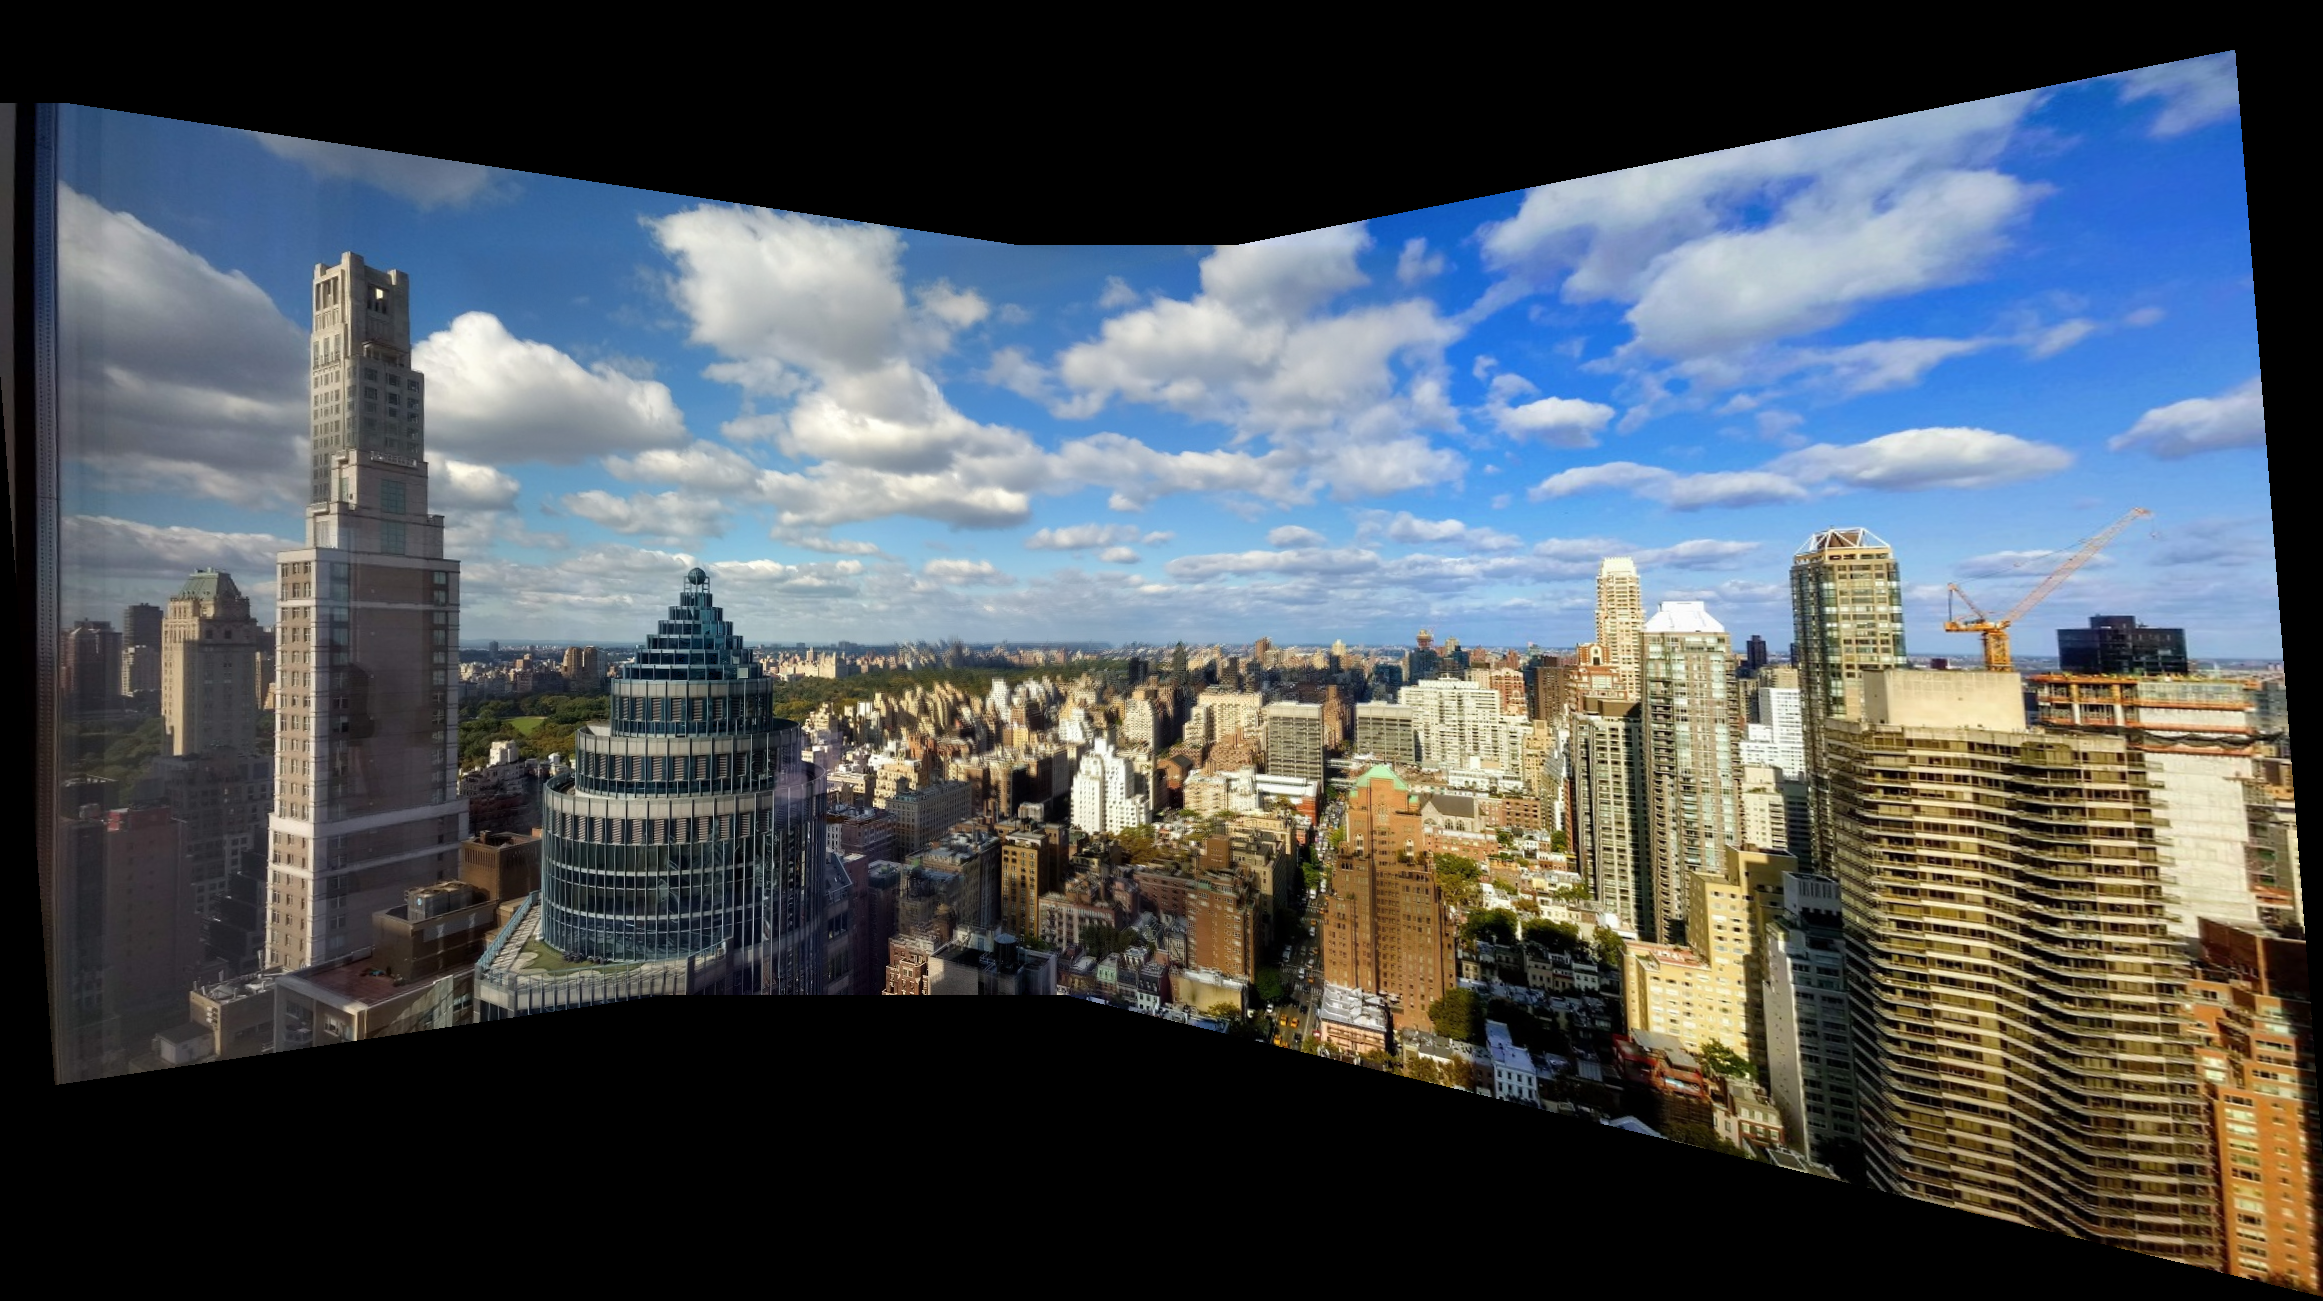
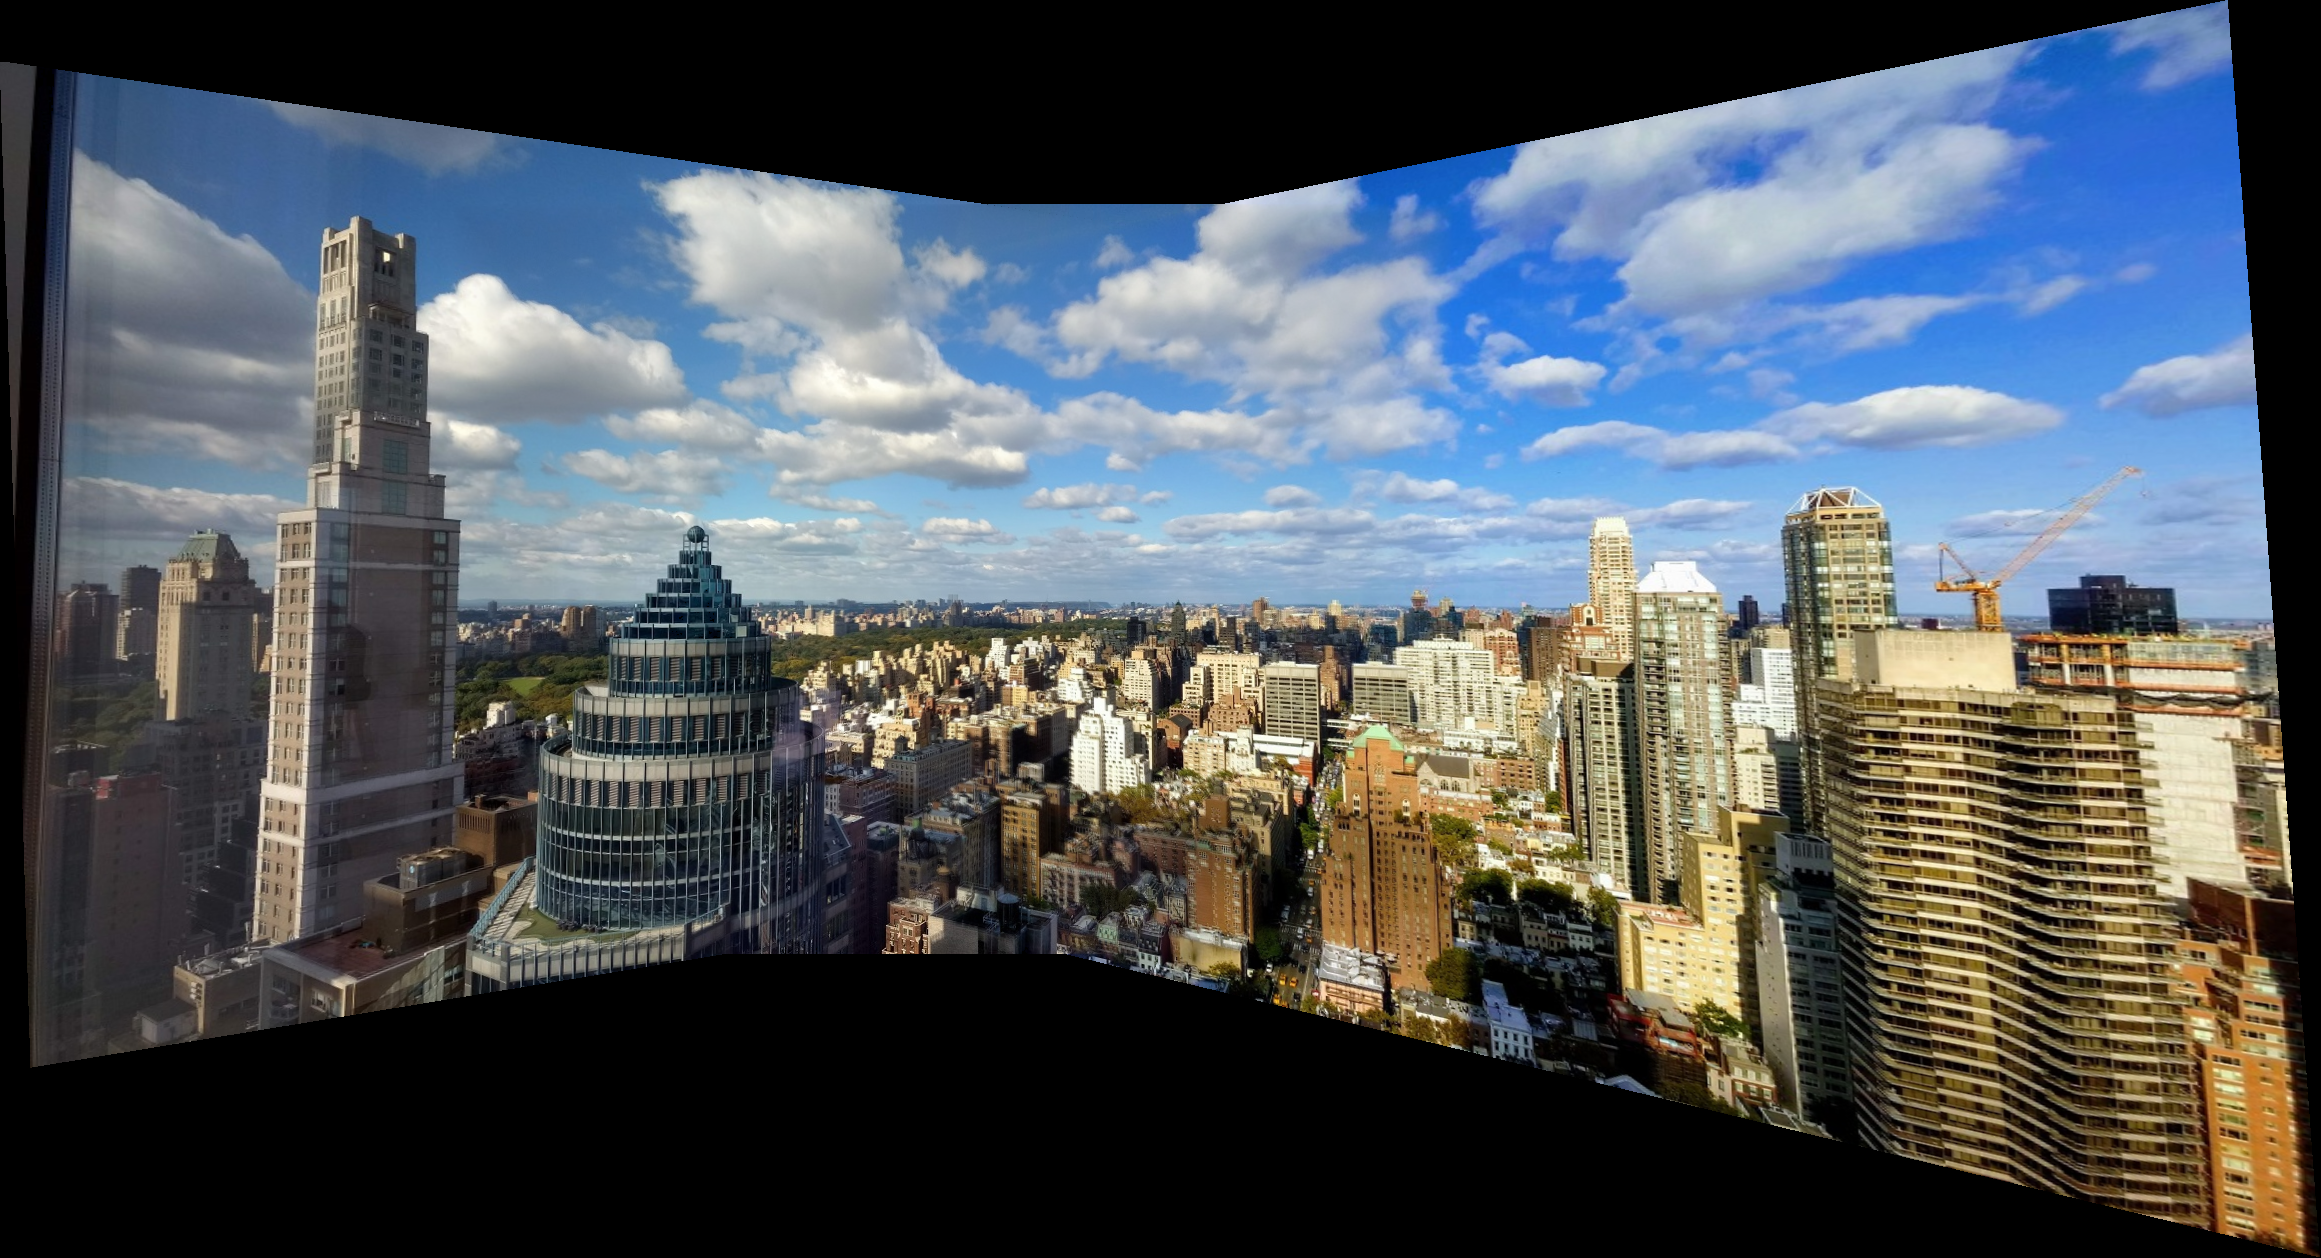
Instead of recomputing the homography after translating the image, using the trick, H_new = H_translation * H_old. This reduces the runtime by number of images to be stitched

diff --git a/Assignments/HW4/src/stitchImg.m b/Assignments/HW4/src/stitchImg.m
@@ -4,36 +4,34 @@ function stitched_img = stitchImg(varargin)
     ransac_eps = 10;        % Acceptable alignment error 
 
     reference_img = varargin{ceil(nargin / 2)};
-    mask_ref = ones(size(reference_img(:,:,1)));
     for img_idx = 1 : nargin
         if img_idx ~= ceil(nargin / 2)
             img = varargin{img_idx};
-            
             
             [xs, xd] = genSIFTMatches(img, reference_img);
             
             [~, H_3x3] = runRANSAC(xs, xd, ransac_n, ransac_eps);
             
-            % Compute the bounding box for destination img
             [img_ht, img_wid, ~] = size(img);
             src_corners = [1, 1; img_wid, 1; img_wid, img_ht; 1, img_ht];
             dest_corners = applyHomography(H_3x3, src_corners);
             
+            % Compute the bounding box for destination img:
             % If img is left to center, left append zeros.
             % Else, right append
+            tx = 0; ty = 0;
             if img_idx < ceil(nargin / 2)
                 min_x = round(min(dest_corners(:, 1)));
                 if min_x < 0
-%                     fprintf("Extending left\n");
+                    % fprintf("Extending left\n");
+                    tx = -min_x;
                     reference_img = horzcat(zeros(size(reference_img, 1), -min_x, 3), reference_img);
-                    mask_ref = horzcat(zeros(size(mask_ref, 1), -min_x), mask_ref);
                 end
             else
                 max_x = round(max(dest_corners(:, 1)));
                 if max_x > size(reference_img, 2)
                     % fprintf("Extending right\n");
                     reference_img = horzcat(reference_img, zeros(size(reference_img, 1), max_x - size(reference_img, 2), 3));
-                    mask_ref = horzcat(mask_ref, zeros(size(mask_ref, 1), max_x - size(mask_ref, 2)));
                 end
             end
             min_y = round(min(dest_corners(:, 2)));
@@ -41,29 +39,22 @@ function stitched_img = stitchImg(varargin)
             initial_ref_ht = size(reference_img, 1);
             if min_y < 0
                 % fprintf("Extending up\n");
+                ty = -min_y;
                 reference_img = vertcat(zeros(-min_y, size(reference_img, 2), 3), reference_img);
-                mask_ref = vertcat(zeros(-min_y, size(mask_ref, 2)), mask_ref);
             end
             if max_y > initial_ref_ht
                 % fprintf("Extending down\n");
                 reference_img = vertcat(reference_img, zeros(max_y - initial_ref_ht, size(reference_img, 2), 3));
-                mask_ref = vertcat(mask_ref, zeros(max_y - initial_ref_ht, size(mask_ref, 2)));
             end
             
             dest_canvas_wid_ht = [size(reference_img, 2), size(reference_img, 1)];
             % figure('Name', 'Reference Img'), imshow(reference_img);
             
-            [x_news, x_newd] = genSIFTMatches(reference_img, img);
-            [~, H_new] = runRANSAC(x_newd, x_news, ransac_n, ransac_eps);
+            % The new homography = translation homography * old homography
+            H_new = [1, 0, tx; 0, 1, ty; 0, 0, 1] * H_3x3;
             
             [mask, res_img] = backwardWarpImg(img, inv(H_new), dest_canvas_wid_ht);
             % figure('Name', 'Warped img'), imshow(res_img);
-            mask = ~mask;
-            % Superimpose the image
-            % reference_img = reference_img .* cat(3, mask, mask, mask) + res_img;
-            % figure('Name', 'Backward warped and superimposed'), imshow(reference_img);
-            mask(isnan(mask))=0;
-            mask = 1 - mask;
             mask_ref = reference_img(:, :, 1);
             mask_ref(reference_img(:, :, 1) > 0) = 1;
             % figure('Name', 'Mask'), imshow(mask);

diff --git a/Assignments/HW4/src/runRANSAC.m b/Assignments/HW4/src/runRANSAC.m
@@ -8,10 +8,7 @@ function [inliers_id, H] = runRANSAC(Xs, Xd, ransac_n, eps)
         H_3x3 = computeHomography(x_src, x_dest);
         
         inliers_idx = getInliers(H_3x3, Xs, Xd, eps);
-%         fprintf("Size inliers: %d\n", size(inliers_idx, 2));
-%         fprintf("Size ret: %d\n", size(inliers_id, 2));
         if size(inliers_idx, 2) > size(inliers_id, 2)
-%             fprintf("Found some Inliers\n");
             H = H_3x3;
             inliers_id = inliers_idx;
         end
@@ -23,11 +20,8 @@ function inliers_idx = getInliers(H, x_s, x_d, err)
     inliers_idx = zeros(size(x_d, 1));
     inl_idx = 1;
     for idx = 1 : size(x_d, 1)
-%         transformed_pts(idx, :)
-%         x_d(idx, :)
         l2_norm = norm(transformed_pts(idx, :) - x_d(idx, :));
         if l2_norm < err
-%             fprintf("Better Norm: %f\n", l2_norm);
             inliers_idx(inl_idx) = idx;
             inl_idx = inl_idx + 1;
         end
